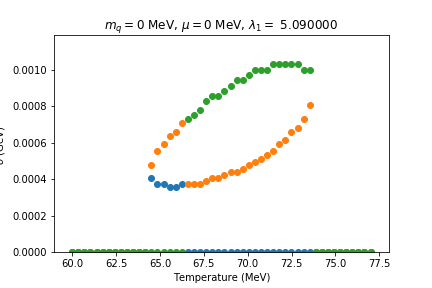
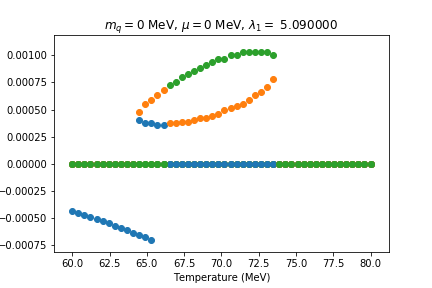
Allow reversed bounds for sigma search
"Allow reversed bounds for sigma search"#

diff --git a/criticalZoom.py b/criticalZoom.py
@@ -125,10 +125,14 @@ def allSigmas(args):#,mu,ml,minsigma,maxsigma,a0,lambda1):
     
     "stepsize for search over sigma"
     "Note: search should be done over cube root of sigma, here called sl"
-    if maxsigma-minsigma<20:
+    if np.abs(maxsigma-minsigma)<10:
         deltasig = 0.1
     else:
         deltasig = 1
+        
+    if minsigma>maxsigma:
+        deltasig=-deltasig
+        
     #tic = time.perf_counter()
 
     # create an array of sigma values from minsigma to maxsigma, incrementing by deltasig
@@ -284,7 +288,7 @@ def critical_zoom(tmin,tmax,numtemp,minsigma,maxsigma,ml,mu,lambda1,a0):
     Tc=tmax #inserted in case the loop below never runs
     
     #iteratively run the order_checker function until the transition is first order, or until the bounds are too small
-    while order==2 and iterationNumber<10 and tmin<tmax and maxsigma-minsigma>2:
+    while order==2 and iterationNumber<10 and tmin<tmax and np.abs(maxsigma-minsigma)>2:
         tmin,tmax,minsigma,maxsigma,order,temps,truesigma,Tc=order_checker(tmin,tmax,numtemp,minsigma,maxsigma,ml,mu,lambda1,a0)
         iterationNumber=iterationNumber+1
         print("Iteration number ", iterationNumber)
